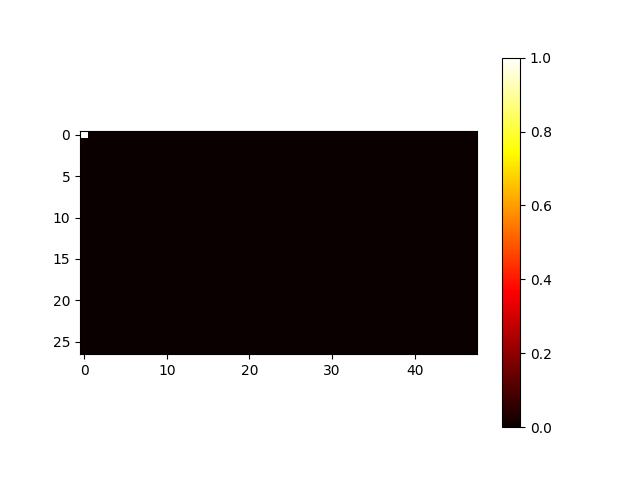
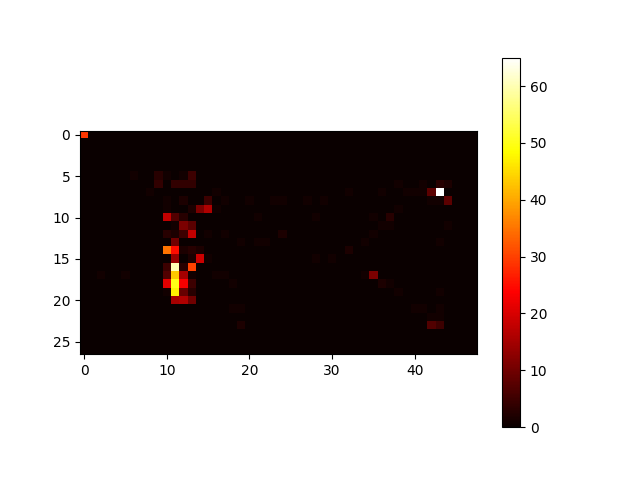
Eyetrack tested, gets automatic calibrate when open ext

diff --git a/Eyetracker.js b/Eyetracker.js
@@ -9,7 +9,7 @@ var readFunctionDelay = 10 //in seconds
 
 const EDITOR_START_Y = 0.107
 const EDITOR_END_Y = 0.733
-const EDITOR_START_X = 0.135
+const EDITOR_START_X = 0.129
 const LINE_HEIGHT = (EDITOR_END_Y - EDITOR_START_Y) / 30 //assume 30 lines
 var timeOut = false;
 
@@ -32,6 +32,14 @@ class EyeTracker {
         //UNDER IS THE IP ADRESS USE IT
         //this.settings.eyeIP
 
+        this.init()
+
+        // this.socket.on('error', (err) => {
+        //     console.error('Error:', err.message);
+        // });
+    }
+
+    init() {
         // Connect to the server
         this.socket.connect(4242, this.settings.eyeTracker, () => {
             console.log('Connected to EyeTracker server');
@@ -68,12 +76,9 @@ class EyeTracker {
         });
 
         var disposableInterval = setInterval(async () => {
-            await this.getMostFocusedFunction()
+            if (this.recording)
+                await this.getMostFocusedFunction()
         }, readFunctionDelay * 1000)
-
-        // this.socket.on('error', (err) => {
-        //     console.error('Error:', err.message);
-        // });
     }
 
     getX() {
@@ -93,10 +98,10 @@ class EyeTracker {
 		//console.log("Y: " + this.eyetracker.getY() + "\n")
 
 		if (editor != undefined) {	
-			//var y = this.getY()
-			//var x = this.getX()
-            var y = 0.12
-            var x = 0.21
+			var y = this.getY()
+			var x = this.getX()
+            //var y = 0.12
+            //var x = 0.21
 			if (y >= EDITOR_START_Y && y <= EDITOR_END_Y && x >= EDITOR_START_X) {
 
 				var currentRange = editor.visibleRanges
@@ -139,12 +144,12 @@ class EyeTracker {
     recordingStart() { 
         this.long_X = []
         this.long_Y = [] //clear lists
+        fs.writeFileSync(this.path + '\\fullDictionaryFile.txt', '') //empty old file
         this.recording = true
     }
     recordingEnd() {
         this.recording = false
     }
-    
     
     generateHeatmap() {
         fs.writeFileSync(this.path + '\\xValues.txt', this.long_X.toString())
@@ -162,12 +167,10 @@ class EyeTracker {
     }
 
     calibrate() {
+        console.log('Calibrating')
         this.socket.write(
-            '<SET ID="CALIBRATE_SHOW" VALUE="1" />\r\n' + 
-            //'<SET ID="CALIBRATE_RESET" />\r\n' + kanske inte behövs
-            '<SET ID="CALIBRATE_START" VALUE="1" />\r\n')
-        //wait for calibrate to send finish message ------
-        this.socket.write('<SET ID="CALIBRATE_SHOW" VALUE="0" />\r\n')
+            '<SET ID="CALIBRATE_SHOW" STATE="1" />\r\n' + 
+            '<SET ID="CALIBRATE_START" STATE="1" />\r\n')
     }
 }
 

diff --git a/DataHandler.js b/DataHandler.js
@@ -63,7 +63,7 @@ class DataHandler {
 
 
     async init(extensionPath) {
-        console.log("initializing DAtaHandler")
+        console.log("initializing DataHandler")
         try { // login and connect to Neurosity device
 
             const dotenvRequire = await require('dotenv').config({

diff --git a/extension.js b/extension.js
@@ -89,6 +89,8 @@ async function activate(context) {
 
 	this.uiHandler.init(context, this.eventHandler);
 
+	this.eyetracker.calibrate()
+
 	//main loop
 	var setCalmFocusAndStatusBars = setInterval(async () => {
 

diff --git a/readme2.md b/readme2.md
@@ -85,7 +85,11 @@ Minor changes:
 
 
 
+
+
 Added features X, Y, and Z.
 ## Additional Notes
 The AI assistant may prompt you with advice if your focus or calmness levels drop below a set threshold.
 A color indicator at the bottom of VScode reflects your current emotional state (blue - focused/calm, red - unfocused/uncalm, orange - mixed state)
+
+* In order for the eye tracker to work, the program Gazepoint Control has to be started already. When you start the extention a calibration will run.
